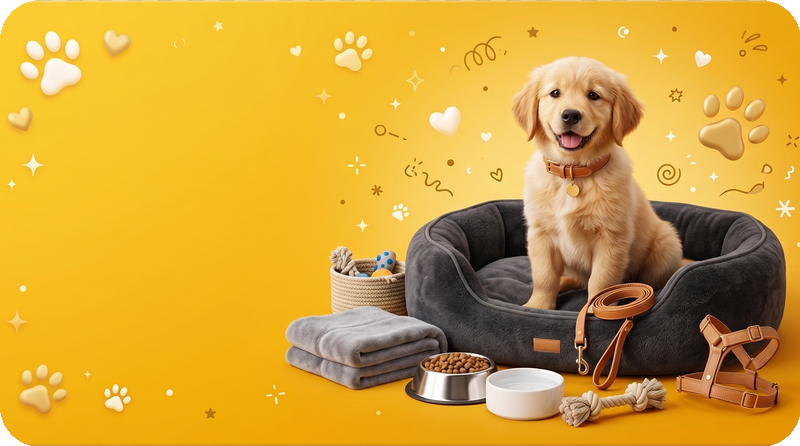
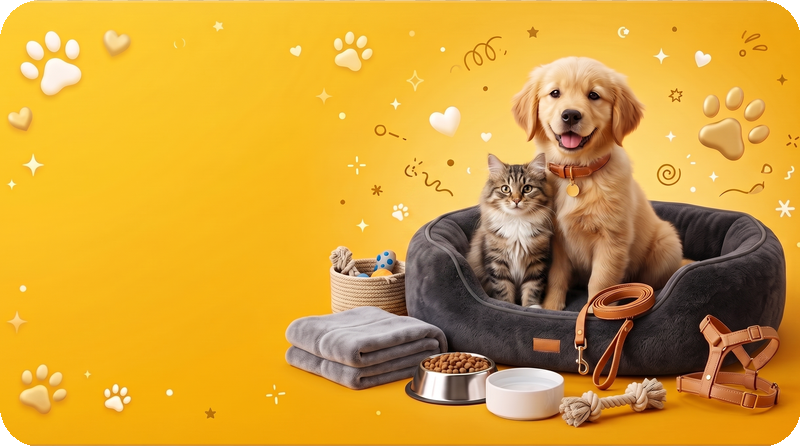
imtial commit

diff --git a/pages/boarding.html b/pages/boarding.html
@@ -681,10 +681,14 @@
         <div class="boarding-container">
             <div class="sec-heading" style="margin-bottom: 3rem; text-align: center;">
                 <h2>
-                    <span class="sec-deco-paw-title" style="color: var(--primary-yellow); margin-right: 0.6rem; font-size: 1.8rem;"><i class="fa-solid fa-paw"></i></span>
-                    <span class="sec-arrow">➔</span> 
-                    Our Stays & Daycare
-                    <span class="sec-arrow sec-arrow-flip">➔</span>
+                    <span class="sec-heading-decorations-left">
+                        <span class="sec-deco-paw-title" style="color: var(--primary-yellow); margin-right: 0.6rem; font-size: 1.8rem;"><i class="fa-solid fa-paw"></i></span>
+                        <span class="sec-arrow">➔</span>
+                    </span>
+                    <span class="sec-heading-text">Our Stays & Daycare</span>
+                    <span class="sec-heading-decorations-right">
+                        <span class="sec-arrow sec-arrow-flip">➔</span>
+                    </span>
                 </h2>
                 <p style="color: #666; margin-top: 0.5rem; font-size: 1.1rem; font-family: var(--font-primary);">Choose the perfect luxury package for your dogs and cats.</p>
             </div>
@@ -924,10 +928,6 @@
 
         <!-- Yellow Copyright Bar with Wavy top edge -->
         <div class="footer-bottom-bar">
-            <!-- Paw print badge overlapping the bottom wave -->
-            <div class="footer-bottom-badge">
-                <i class="fa-solid fa-paw"></i>
-            </div>
                         <div class="footer-copyright-text">
                 &copy; 2026 Petland Oman. All rights reserved.
             </div>

diff --git a/style.css b/style.css
@@ -411,6 +411,12 @@ nav ul li a.active {
     display: inline-block;
 }
 
+.sec-heading-decorations-left,
+.sec-heading-decorations-right {
+    display: inline-flex;
+    align-items: center;
+}
+
 .sec-wave {
     font-size: 1.3rem;
     letter-spacing: -4px;
@@ -723,6 +729,27 @@ nav ul li a.active {
     .sec-heading h2 {
         font-size: 1.8rem;
         flex-wrap: nowrap;
+    }
+    .boarding-packages-section .sec-heading h2 {
+        display: grid !important;
+        grid-template-columns: 1fr auto 1fr !important;
+        align-items: center !important;
+        justify-content: center !important;
+        gap: 0.5rem !important;
+    }
+    .boarding-packages-section .sec-heading-decorations-left {
+        display: flex !important;
+        align-items: center !important;
+        justify-content: flex-end !important;
+    }
+    .boarding-packages-section .sec-heading-decorations-right {
+        display: flex !important;
+        align-items: center !important;
+        justify-content: flex-start !important;
+    }
+    .boarding-packages-section .sec-heading-text {
+        text-align: center !important;
+        display: block !important;
     }
     .product-circles {
         display: grid;
@@ -1511,21 +1538,7 @@ footer {
 }
 
 .footer-bottom-badge {
-    position: absolute;
-    top: -24px;
-    left: 50%;
-    transform: translateX(-50%);
-    width: 44px;
-    height: 44px;
-    border-radius: 50%;
-    background-color: var(--primary-yellow);
-    color: var(--gray-dark);
-    display: flex;
-    align-items: center;
-    justify-content: center;
-    font-size: 1.3rem;
-    box-shadow: 0 4px 10px rgba(0, 0, 0, 0.15);
-    z-index: 10;
+    display: none;
 }
 
 .footer-copyright-text {

diff --git a/pages/accessories.html b/pages/accessories.html
@@ -503,10 +503,6 @@
 
         <!-- Yellow Copyright Bar with Wavy top edge -->
         <div class="footer-bottom-bar">
-            <!-- Paw print badge overlapping the bottom wave -->
-            <div class="footer-bottom-badge">
-                <i class="fa-solid fa-paw"></i>
-            </div>
                         <div class="footer-copyright-text">
                 &copy; 2026 Petland Oman. All rights reserved.
             </div>
@@ -603,7 +599,13 @@
             }
 
             function openModal(card) {
-                var images  = JSON.parse(card.dataset.images);
+                var images  = JSON.parse(card.dataset.images).map(function(src) {
+                    if (src.indexOf('http') === 0 || src.indexOf('../') === 0) return src;
+                    var cleanSrc = src
+                        .replace('product list/', 'product_list/')
+                        .replace('Hygiene suppliments/', 'hygiene_supplements/');
+                    return '../assets/images/' + cleanSrc;
+                });
                 var title   = card.dataset.title;
                 var tag     = card.dataset.tag;
                 var desc    = card.dataset.desc;

diff --git a/pages/hygiene.html b/pages/hygiene.html
@@ -513,10 +513,6 @@
 
         <!-- Yellow Copyright Bar with Wavy top edge -->
         <div class="footer-bottom-bar">
-            <!-- Paw print badge overlapping the bottom wave -->
-            <div class="footer-bottom-badge">
-                <i class="fa-solid fa-paw"></i>
-            </div>
                         <div class="footer-copyright-text">
                 &copy; 2026 Petland Oman. All rights reserved.
             </div>
@@ -623,7 +619,13 @@
             }
 
             function openModal(card) {
-                var images  = JSON.parse(card.dataset.images);
+                var images  = JSON.parse(card.dataset.images).map(function(src) {
+                    if (src.indexOf('http') === 0 || src.indexOf('../') === 0) return src;
+                    var cleanSrc = src
+                        .replace('product list/', 'product_list/')
+                        .replace('Hygiene suppliments/', 'hygiene_supplements/');
+                    return '../assets/images/' + cleanSrc;
+                });
                 var title   = card.dataset.title;
                 var tag     = card.dataset.tag;
                 var desc    = card.dataset.desc;

diff --git a/pages/pet-food.html b/pages/pet-food.html
@@ -417,10 +417,6 @@
 
         <!-- Yellow Copyright Bar with Wavy top edge -->
         <div class="footer-bottom-bar">
-            <!-- Paw print badge overlapping the bottom wave -->
-            <div class="footer-bottom-badge">
-                <i class="fa-solid fa-paw"></i>
-            </div>
                         <div class="footer-copyright-text">
                 &copy; 2026 Petland Oman. All rights reserved.
             </div>
@@ -527,7 +523,13 @@
             }
 
             function openModal(card) {
-                var images  = JSON.parse(card.dataset.images);
+                var images  = JSON.parse(card.dataset.images).map(function(src) {
+                    if (src.indexOf('http') === 0 || src.indexOf('../') === 0) return src;
+                    var cleanSrc = src
+                        .replace('product list/', 'product_list/')
+                        .replace('Hygiene suppliments/', 'hygiene_supplements/');
+                    return '../assets/images/' + cleanSrc;
+                });
                 var title   = card.dataset.title;
                 var tag     = card.dataset.tag;
                 var desc    = card.dataset.desc;

diff --git a/pages/toys.html b/pages/toys.html
@@ -657,10 +657,6 @@
 
         <!-- Yellow Copyright Bar with Wavy top edge -->
         <div class="footer-bottom-bar">
-            <!-- Paw print badge overlapping the bottom wave -->
-            <div class="footer-bottom-badge">
-                <i class="fa-solid fa-paw"></i>
-            </div>
                         <div class="footer-copyright-text">
                 &copy; 2026 Petland Oman. All rights reserved.
             </div>
@@ -767,7 +763,13 @@
             }
 
             function openModal(card) {
-                var images  = JSON.parse(card.dataset.images);
+                var images  = JSON.parse(card.dataset.images).map(function(src) {
+                    if (src.indexOf('http') === 0 || src.indexOf('../') === 0) return src;
+                    var cleanSrc = src
+                        .replace('product list/', 'product_list/')
+                        .replace('Hygiene suppliments/', 'hygiene_supplements/');
+                    return '../assets/images/' + cleanSrc;
+                });
                 var title   = card.dataset.title;
                 var tag     = card.dataset.tag;
                 var desc    = card.dataset.desc;

diff --git a/pages/products.html b/pages/products.html
@@ -193,7 +193,7 @@
 
             <!-- Card 4: Accessories -->
             <a href="accessories.html" class="svc-card prod-card">
-                <img src="../assets/images/extracted_images/card_prod_accessories_new.png" alt="Accessories" class="svc-card-main-img" loading="lazy">
+                <img src="../assets/images/extracted_images/card_prod_accessories_new.png?v=2" alt="Accessories" class="svc-card-main-img" loading="lazy">
                 <div class="svc-card-overlay">
                     <h3 class="svc-card-title">Accessories</h3>
                     <p class="svc-card-desc">Comfortable accessories for everyday care.</p>
@@ -269,10 +269,6 @@
 
         <!-- Yellow Copyright Bar with Wavy top edge -->
         <div class="footer-bottom-bar">
-            <!-- Paw print badge overlapping the bottom wave -->
-            <div class="footer-bottom-badge">
-                <i class="fa-solid fa-paw"></i>
-            </div>
                         <div class="footer-copyright-text">
                 &copy; 2026 Petland Oman. All rights reserved.
             </div>

diff --git a/index.html b/index.html
@@ -179,7 +179,7 @@
 
                 <a href="pages/accessories.html" class="product-circle-card" style="text-decoration: none; color: inherit;">
                     <div class="circle-img-wrap" style="background:#e0f2fe;">
-                        <img src="assets/images/extracted_images/product_4.png?v=11" alt="Accessories" loading="lazy">
+                        <img src="assets/images/extracted_images/product_4.png?v=12" alt="Accessories" loading="lazy">
                     </div>
                     <h3>Accessories</h3>
                     <p>Comfortable accessories for everyday care.</p>
@@ -721,10 +721,6 @@
 
         <!-- Yellow Copyright Bar with Wavy top edge -->
         <div class="footer-bottom-bar">
-            <!-- Paw print badge overlapping the bottom wave -->
-            <div class="footer-bottom-badge">
-                <i class="fa-solid fa-paw"></i>
-            </div>
                         <div class="footer-copyright-text">
                 &copy; 2026 Petland Oman. All rights reserved.
             </div>

diff --git a/pages/about.html b/pages/about.html
@@ -219,10 +219,6 @@
 
         <!-- Yellow Copyright Bar with Wavy top edge -->
         <div class="footer-bottom-bar">
-            <!-- Paw print badge overlapping the bottom wave -->
-            <div class="footer-bottom-badge">
-                <i class="fa-solid fa-paw"></i>
-            </div>
                         <div class="footer-copyright-text">
                 &copy; 2026 Petland Oman. All rights reserved.
             </div>

diff --git a/pages/all-services.html b/pages/all-services.html
@@ -384,10 +384,6 @@
 
         <!-- Yellow Copyright Bar with Wavy top edge -->
         <div class="footer-bottom-bar">
-            <!-- Paw print badge overlapping the bottom wave -->
-            <div class="footer-bottom-badge">
-                <i class="fa-solid fa-paw"></i>
-            </div>
                         <div class="footer-copyright-text">
                 &copy; 2026 Petland Oman. All rights reserved.
             </div>

diff --git a/pages/blog.html b/pages/blog.html
@@ -122,10 +122,6 @@
 
         <!-- Yellow Copyright Bar with Wavy top edge -->
         <div class="footer-bottom-bar">
-            <!-- Paw print badge overlapping the bottom wave -->
-            <div class="footer-bottom-badge">
-                <i class="fa-solid fa-paw"></i>
-            </div>
                         <div class="footer-copyright-text">
                 &copy; 2026 Petland Oman. All rights reserved.
             </div>

diff --git a/pages/contact.html b/pages/contact.html
@@ -259,10 +259,6 @@
 
         <!-- Yellow Copyright Bar with Wavy top edge -->
         <div class="footer-bottom-bar">
-            <!-- Paw print badge overlapping the bottom wave -->
-            <div class="footer-bottom-badge">
-                <i class="fa-solid fa-paw"></i>
-            </div>
                         <div class="footer-copyright-text">
                 &copy; 2026 Petland Oman. All rights reserved.
             </div>
